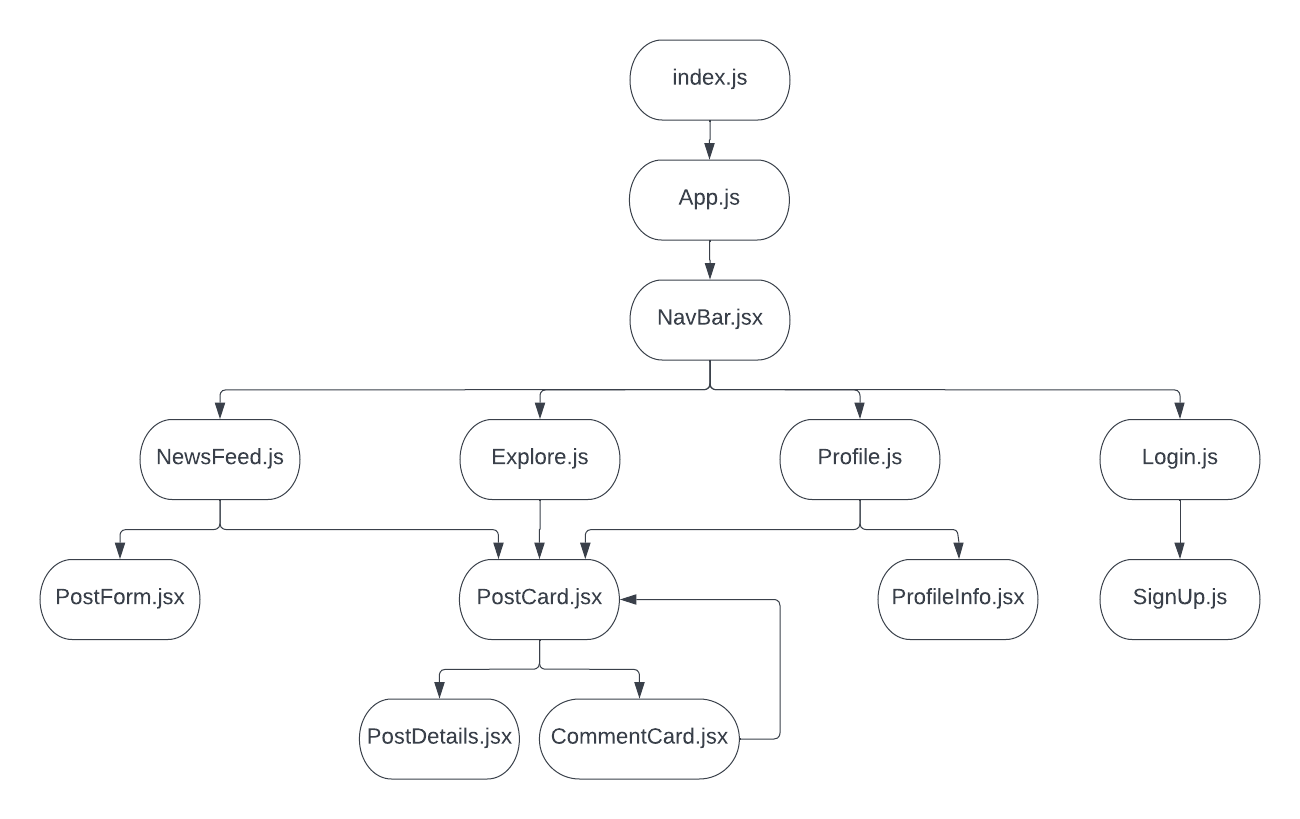
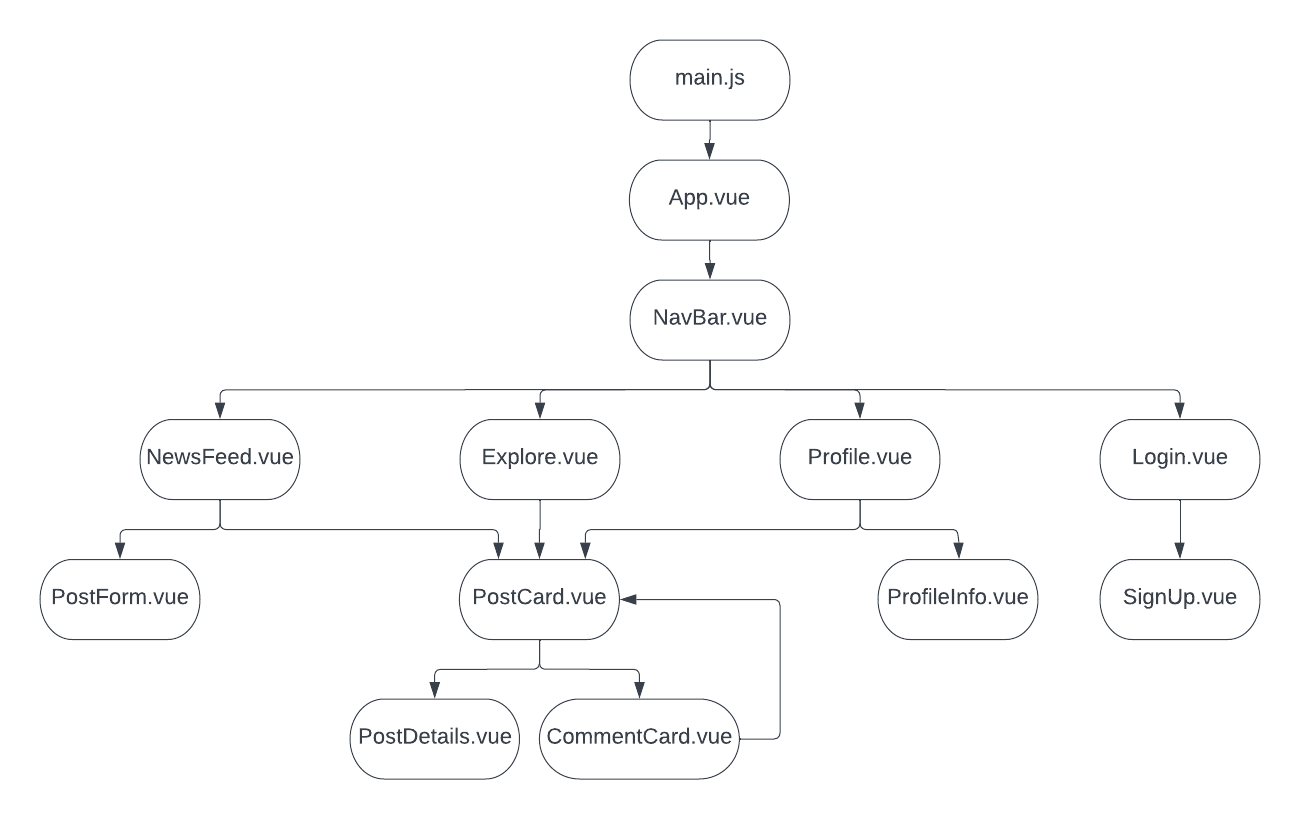
Added Vue to tech stack on ReadMe

diff --git a/README.md b/README.md
@@ -34,7 +34,8 @@ A Trello board was used to keep track of development progress and can be viewed 
 
 ### **_Technologies_**
 
--   React.js
+-   Vue.js
+    -   Pinia
 -   JavaScript
 -   CSS
 -   HTML
